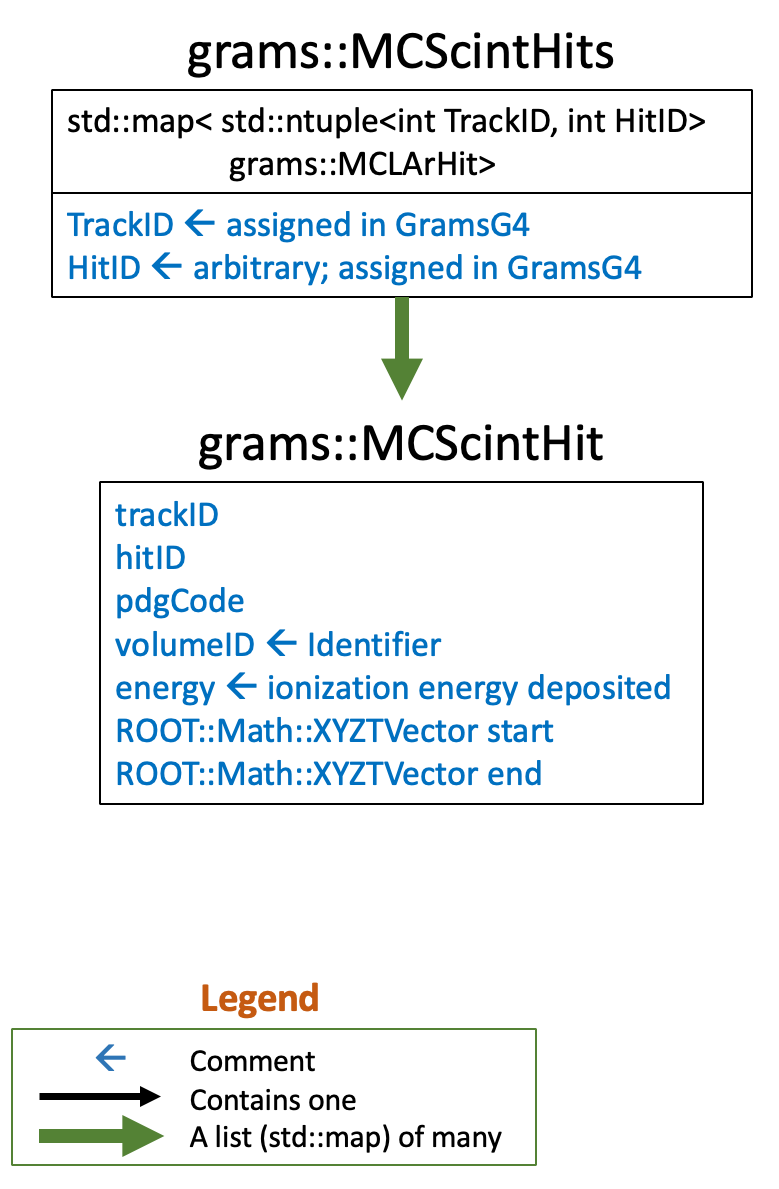
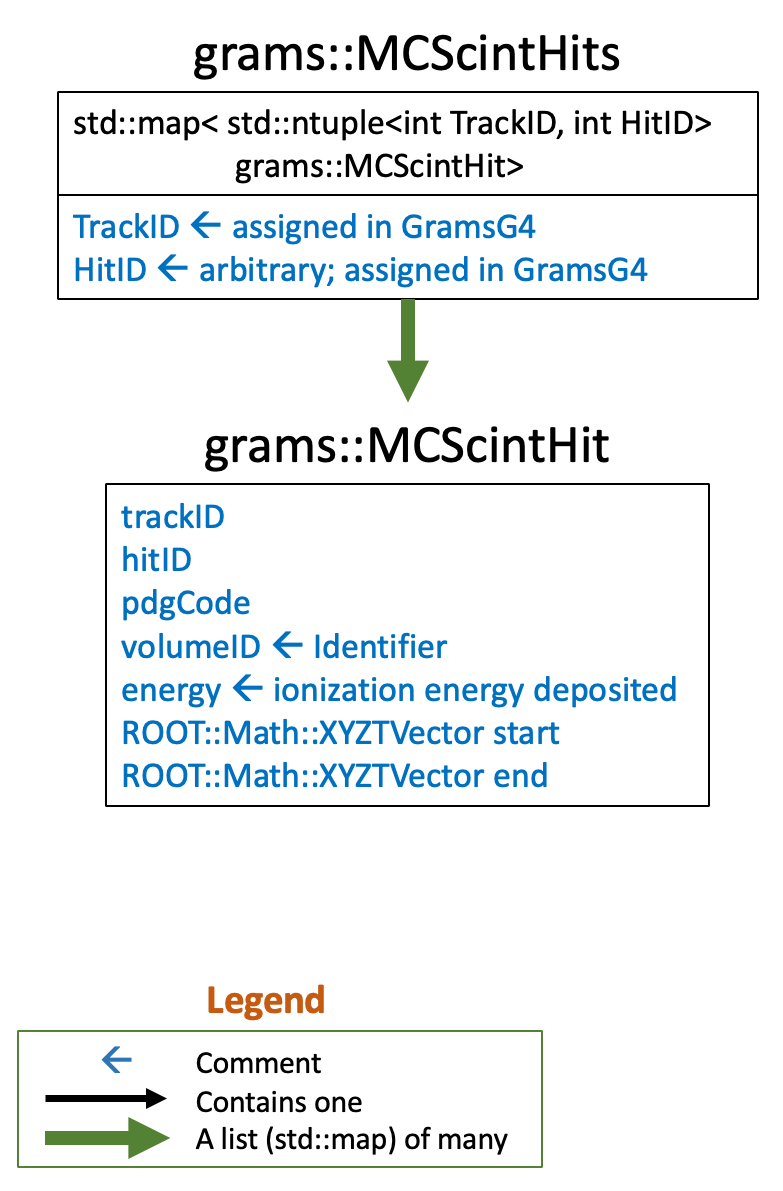
GramsG4 documentation

diff --git a/GramsG4/README.md b/GramsG4/README.md
@@ -1,7 +1,7 @@
 # GramsG4
 *Author: [William Seligman](https://github.com/wgseligman)*
 
-If you want a formatted (or easier-to-read) version of this file, scroll to the bottom of [`GramsSim/README.md`](../README.md) for instructions. If you're reading this on github, then it's already formatted. 
+_If you want a formatted (or easier-to-read) version of this file, scroll to the bottom of [`GramsSim/README.md`](../README.md) for instructions. If you're reading this on github, then it's already formatted._
 
 - [GramsG4](#gramsg4)
   * [Introduction](#introduction)
@@ -16,6 +16,10 @@ If you want a formatted (or easier-to-read) version of this file, scroll to the 
   * [Events from an external generator](#events-from-an-external-generator)
       - [Notes](#notes)
   * [Program outputs](#program-outputs)
+    + [grams::EventID](#grams--eventid)
+    + [grams::MCTrackList](#grams--mctracklist)
+    + [grams::MCLArHits](#grams--mclarhits)
+    + [grams::MCScintHits](#grams--mcscinthits)
   * [Generating large numbers of events](#generating-large-numbers-of-events)
   * [Physics lists and how to extend them](#physics-lists-and-how-to-extend-them)
     + [Using the available physics lists](#using-the-available-physics-lists)
@@ -58,7 +62,7 @@ As an application, `GramsG4` is a fairly generic Geant4 program. Most of its pro
 
 |                                         |
 | :-------------------------------------: | 
-| <img src="GramsG4IO.png" width="75%" /> |
+| <img src="images/GramsG4IO.png" width="75%" /> |
 
 ### Geometry
 
@@ -261,7 +265,41 @@ The result is that the complete chain of particle generation as modeled by Geant
 | :--------------------------------------------------------------: | 
 | <small><strong>Sketch of the grams::MCLArHits data object.</strong></small> |
 
-This data object contains the "MC Truth" information associated with the ionization energy deposits in the liquid argon as determined by [GramsG4](../GramsG4); see that page for additional information. 
+Certain detector volumes are designated as [sensitive][3100]; that is, they respond in some way to energy deposited within them. For example, in a LArTPC, the liquid argon is sensitive, while the uninstrumented metal walls of a cryostat are not. Energy deposits in a sensitive volume are called [hits][3110]. To put it another way, hits are what the detector is designed to detect. 
+
+[3100]: https://geant4-userdoc.web.cern.ch/UsersGuides/ForApplicationDeveloper/html/Detector/hit.html#sensitive-detector
+
+[3110]: https://geant4-userdoc.web.cern.ch/UsersGuides/ForApplicationDeveloper/html/Detector/hit.html
+
+For a LArTPC, the key purpose of the simulation is to record the energy deposits in the liquid argon (LAr). These are primarily caused by ionization of the argon atoms due to charged particles. 
+
+The [grams::MCLArHits](../GramsDataObj/include/MCLArHits.h) data object is a record of the energy deposits in the LAr. Like `MCTrackList` described above, this is "MC Truth" information in that it contains the calculated amount of hit energy. Subsequent jobs in the analysis change will adjust this data to better match the signals that will be reported by the detector electronics. 
+
+MCLArHits is a [map][3050] containing `grams::MCLArHit` objects. These contain both the ionization energy from individual steps within the LAr, and the number of photons generated as part of the ionization process. 
+
+Geant4 tracks particles in units of [steps][3120]. In order to provide a more accurate geometric model of particle energy loss along a track, `GramsG4` has a parameter to control the maximum step size of a charged particle. This is parameter `larstepsize` in the [options XML](../options.xml) file. 
+
+[3120]: https://geant4-userdoc.web.cern.ch/UsersGuides/ForApplicationDeveloper/html/TrackingAndPhysics/tracking.html
+
+The following image shows an extremely zoomed-in view of one simulated Compton scatter within the LAr, as shown in the Geant4 event display. The "straggling" red line is the Compton electron; the straight green line is the photon. Each line segment along the electron track is an individual step, and therefore would be recorded as an MCLArHit. The maximum length of any one of those electron-track line segments is `larstepsize`, which was set to 0.2mm for this particular run of GramsG4.
+
+| <img src="images/Zoomed-in_Compton_scatter.png" width="100%" /> |
+| :-------------------------------------: | 
+| <small><strong>A zoomed-in view of a Compton scatter in Geant4.</strong></small> |
+
+Even though the value of the step size was set to a maximum of 0.2mm, the actual size of the electron-track line segments is shorter than that, on the order of 0.01mm. The overall size of the scatter in the image is about 0.5mm. This image was selected as a "dramatic" scatter (longer than typical); most scatters are shorter and have fewer hits than this. 
+
+### grams::MCScintHits
+
+
+| <img src="../GramsDataObj/images/grams_MCScintHits.png" width="50%" /> |
+| :--------------------------------------------------------------: | 
+| <small><strong>Sketch of the grams::MCScintHits data object.</strong></small> |
+
+The [grams::MCScintHits](../GramsDataObj/include/MCScintHits.h) data object is the equivalent of MCLArHits, but for energy deposits in the scintillator strips that make up the detector's time-of-flight (TOF) or veto-wall subsystems. MCScintHits is a [map][3050] containing `grams::MCScintHit` objects. 
+
+Since energy deposits in a LArTPC's scintillator subsystems are used for timing and veto of the events in the LAr, but typically not for the physics of the event. Therefore the `MCScintHit` information is not recorded to the same level of detail as an `MCLArHit`.
+
 
 ## Generating large numbers of events
 

diff --git a/GramsElecSim/README.md b/GramsElecSim/README.md
@@ -1,6 +1,8 @@
 # GramsElecSim
 *Author: Satoshi Takashima*
 
+_If you want a formatted (or easier-to-read) version of this file, scroll to the bottom of [`GramsSim/README.md`](../README.md) for instructions. If you're reading this on github, then it's already formatted._
+
 This program is a simulation of the electronics response to the detector readout, including noise and shaping. It sums the energy deposited into each readout pixel as a function of time, and generates waveform simulations for each pixel. 
 
 Note that `gramselecsim` uses a random-number generator for its noise and pre-amp operations. When running this program as part of grid or batch job, you probably want to set up a process-based value for option `rngseed` as mentioned in [GramsSim/README.md](../README.md). For example, assuming that the individual process ID is stored in variable `${Process}`:

diff --git a/GramsReadoutSim/README.md b/GramsReadoutSim/README.md
@@ -1,6 +1,8 @@
 # GramsReadoutSim
 *Author: Satoshi Takashima*
 
+_If you want a formatted (or easier-to-read) version of this file, scroll to the bottom of [`GramsSim/README.md`](../README.md) for instructions. If you're reading this on github, then it's already formatted._
+
 The purpose of this program is to model the readout geometry of the GRAMS detector. 
 
 As of Nov-2022, it's anticipated that the readout of the GRAMS LArTPC will be a pixel detector. However, other LArTPC detectors have used wires, and in the future yet another charge readout technologies may be developed. Hence the readout system is modeled in a program of its own. 

diff --git a/README.md b/README.md
@@ -59,7 +59,7 @@ subdirectory's README.md file:
    
 This is a diagram of the overall structure of the GramsSim modules. Note that as of Oct-2022, many of these modules have not yet been formally installed in this package; these are denoted in gray text in the figure.
 
-| <img src="GramsSim_modules.png" width="100%" /> |
+| <img src="images/GramsSim_modules.png" width="100%" /> |
 | :---------------------------------------------: | 
 | <small><strong>A sketch of the organization of the `GramsSim` modules.</strong></small> |
 

diff --git a/mac/README.md b/mac/README.md
@@ -1,5 +1,7 @@
 # Example GramsG4 macro files
 
+_If you want a formatted (or easier-to-read) version of this file, scroll to the bottom of [`GramsSim/README.md`](../README.md) for instructions. If you're reading this on github, then it's already formatted._
+
 To get you started, here are examples of how to set up event
 generation and the interactive display for [GramsG4](../GramsG4). To use one of
 these files, e.g., mac/test.mac:

diff --git a/scripts/README.md b/scripts/README.md
@@ -1,5 +1,7 @@
 # GramsSim scripts
 
+_If you want a formatted (or easier-to-read) version of this file, scroll to the bottom of [`GramsSim/README.md`](../README.md) for instructions. If you're reading this on github, then it's already formatted._
+
 This directory contains utility scripts to help work with GramsSim
 inputs and outputs. Some of the programs are provided solely to teach
 programming concepts for folks new to:

diff --git a/cmake/README.md b/cmake/README.md
@@ -1,5 +1,7 @@
 # cmake scripts
 
+_If you want a formatted (or easier-to-read) version of this file, scroll to the bottom of [`GramsSim/README.md`](../README.md) for instructions. If you're reading this on github, then it's already formatted._
+
 Like most "cmake" directories within a distribution, this directory
 contains build scripts for packages that are external to the main
 distribution described in CMakeLists.txt.

diff --git a/gdml/README.md b/gdml/README.md
@@ -1,5 +1,7 @@
 # GRAMS GDML files
 
+_If you want a formatted (or easier-to-read) version of this file, scroll to the bottom of [`GramsSim/README.md`](../README.md) for instructions. If you're reading this on github, then it's already formatted._
+
 This is an archive directory for various versions of the GRAMS
 geometry as defined using the
 [GDML](http://lcgapp.cern.ch/project/simu/framework/GDML/doc/GDMLmanual.pdf)

diff --git a/util/README.md b/util/README.md
@@ -1,6 +1,8 @@
 # Directory and Namespace `util`
 *Author: [William Seligman](https://github.com/wgseligman)*
 
+_If you want a formatted (or easier-to-read) version of this file, scroll to the bottom of [`GramsSim/README.md`](../README.md) for instructions. If you're reading this on github, then it's already formatted._
+
 This directory contains modules that I find generally useful in the
 C++ programs I write. 
 

diff --git a/GramsDetSim/README.md b/GramsDetSim/README.md
@@ -1,6 +1,8 @@
 # GramsDetSim
 *Principle author: Satoshi Takashima*
 
+_If you want a formatted (or easier-to-read) version of this file, scroll to the bottom of [`GramsSim/README.md`](../README.md) for instructions. If you're reading this on github, then it's already formatted._
+
 - [GramsDetSim](#gramsdetsim)
   * [Overview](#overview)
   * [Running `GramsDetSim`](#running--gramsdetsim-)

diff --git a/GramsDataObj/README.md b/GramsDataObj/README.md
@@ -1,5 +1,7 @@
 # Data Objects
 
+_If you want a formatted (or easier-to-read) version of this file, scroll to the bottom of [`GramsSim/README.md`](../README.md) for instructions. If you're reading this on github, then it's already formatted._
+
 - [Data Objects](#data-objects)
   * [Overview](#overview)
     + [Definitions](#definitions)
